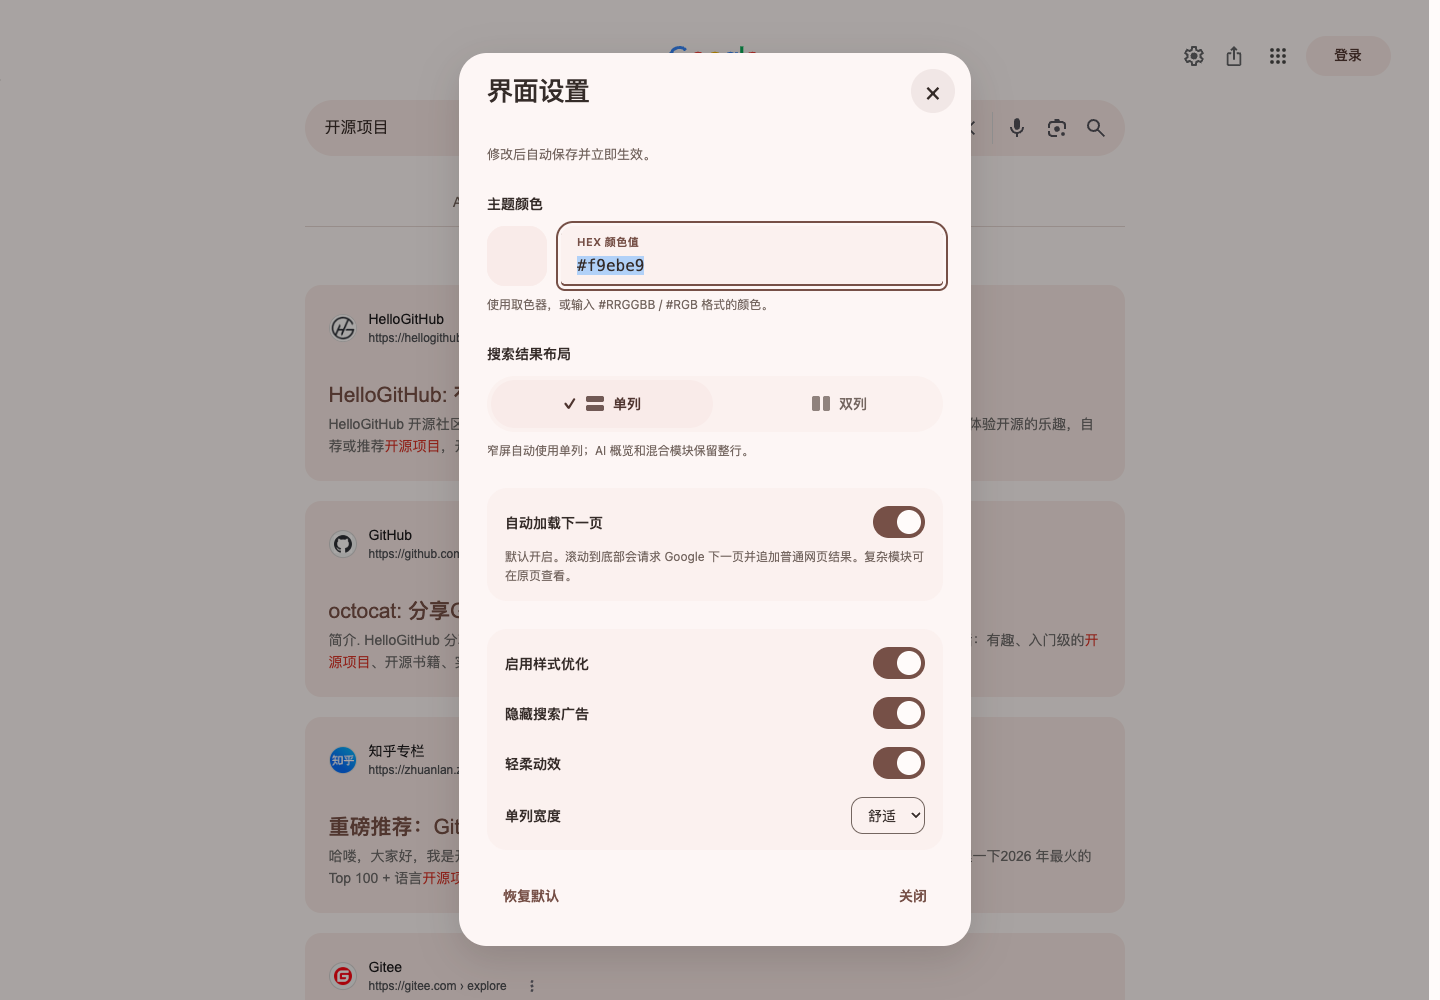
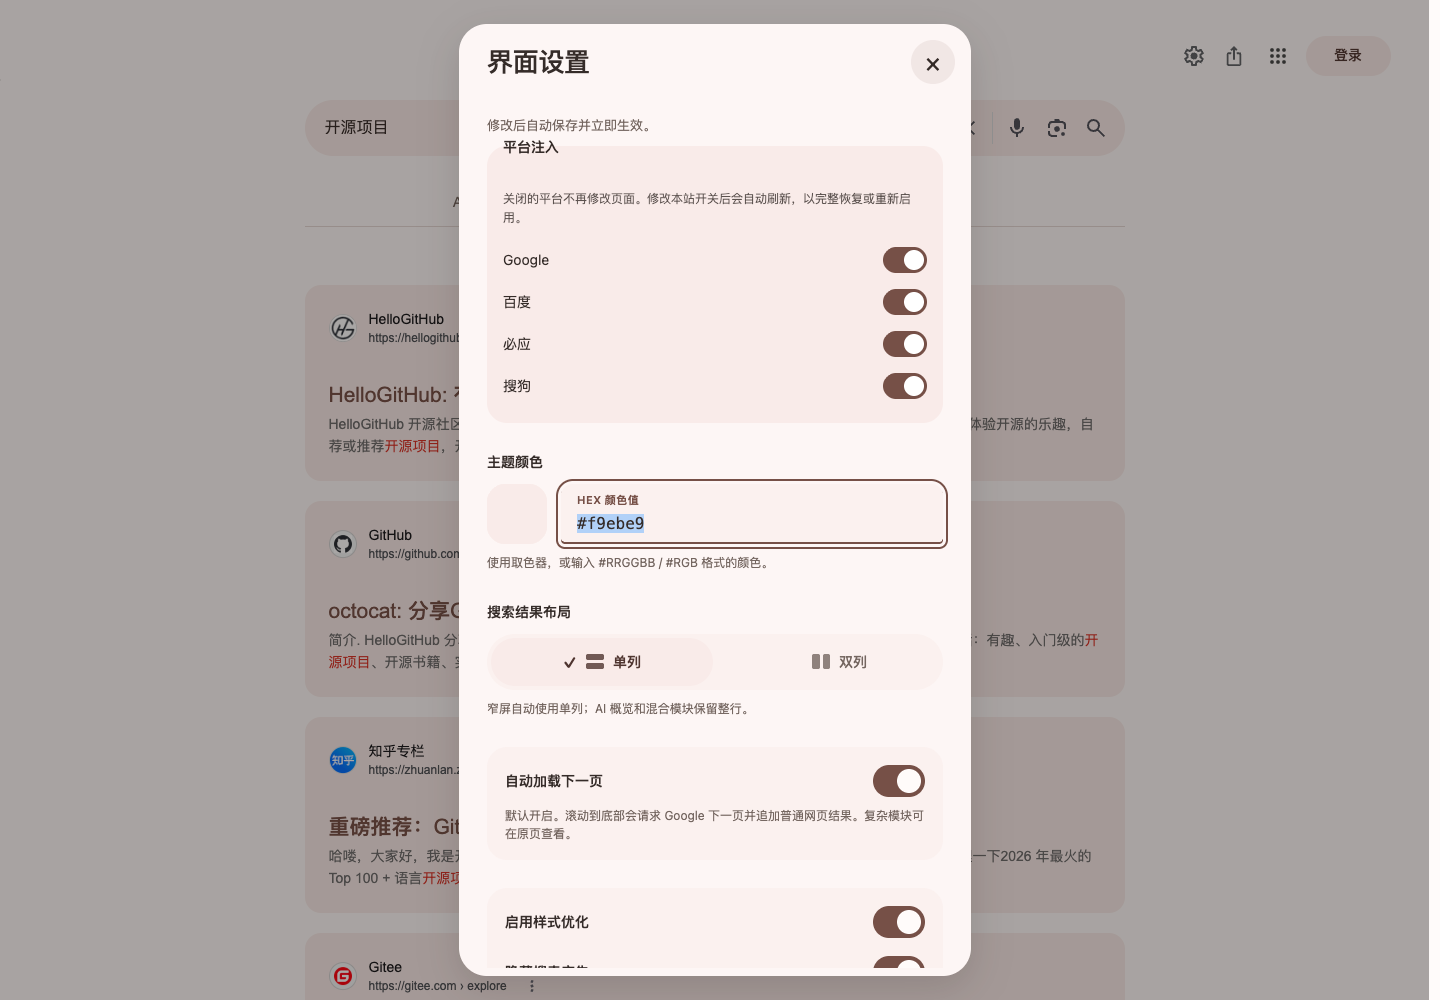
更新: 增加四站注入开关并完整恢复禁用平台原生页面

diff --git a/search-quiet-cards.user.js b/search-quiet-cards.user.js
@@ -2,7 +2,7 @@
 // @name         谷歌搜索样式优化 · MD3 风格
 // @name:zh-CN   谷歌搜索样式优化 · MD3 风格
 // @namespace    local.google-search.quiet-cards
-// @version      1.9.17
+// @version      1.9.18
 // @description  MD3 风格的 Google 搜索样式优化，支持卡片瀑布流、实时设置与自动翻页，兼容百度、必应、搜狗。
 // @author       dot
 // @downloadURL  https://raw.githubusercontent.com/ZOUYIQAQ/Better-Google-Search/main/search-quiet-cards.user.js
@@ -13,6 +13,7 @@
 // @inject-into  content
 // @grant        GM_getValue
 // @grant        GM_setValue
+// @grant        GM_addValueChangeListener
 // @grant        GM_registerMenuCommand
 // @grant        GM_unregisterMenuCommand
 // @noframes
@@ -23,6 +24,251 @@
 // @match        https://cn.bing.com/search*
 // @match        https://www.sogou.com/web*
 // ==/UserScript==
+
+// 平台开关位于全部页面功能之前；关闭的平台只注册管理器设置菜单。
+(() => {
+  const PLATFORM_KEY = "quiet-search.platforms.v1";
+  const PLATFORM_NAMES = {
+    google: "Google",
+    baidu: "百度",
+    bing: "必应",
+    sogou: "搜狗",
+  };
+  const host = location.hostname;
+  const currentPlatform =
+    /^(?:www\.)?google\.(?:com|[a-z]{2,3}|co\.[a-z]{2}|com\.[a-z]{2})$/i.test(
+      host,
+    )
+      ? "google"
+      : /^(?:www|www1)\.baidu\.com$/i.test(host)
+        ? "baidu"
+        : /^(?:www|cn)\.bing\.com$/i.test(host)
+          ? "bing"
+          : host === "www.sogou.com"
+            ? "sogou"
+            : null;
+  if (!currentPlatform || window.top !== window.self) return;
+
+  // 平台开关独立于外观设置，各站共享同一份启用列表。
+  function readPlatforms() {
+    let stored = {};
+    try {
+      if (typeof GM_getValue === "function")
+        stored = GM_getValue(PLATFORM_KEY, {}) || {};
+    } catch {}
+    return Object.fromEntries(
+      Object.keys(PLATFORM_NAMES).map((name) => [name, stored[name] !== false]),
+    );
+  }
+
+  // 在原有设置面板内提供四站注入开关，修改后立即保存。
+  function addPlatformSettings(form, before = form.firstChild) {
+    const field = document.createElement("fieldset");
+    field.className = "platform-settings";
+    const style = document.createElement("style");
+    style.textContent = `
+.platform-settings {
+  border: 0;
+  margin: 0 0 24px;
+  padding: 16px;
+  border-radius: 20px;
+  background: var(--s-container, #f9ebe9);
+}
+.platform-settings legend {
+  font-size: 14px;
+  font-weight: 600;
+  padding: 0;
+}
+.platform-settings p {
+  font-size: 12px;
+  line-height: 1.6;
+  margin: 4px 0 12px;
+  color: inherit;
+  opacity: 0.8;
+}
+.platform-settings label {
+  display: flex;
+  align-items: center;
+  justify-content: space-between;
+  gap: 16px;
+  min-height: 42px;
+  cursor: pointer;
+}
+.platform-settings input {
+  appearance: none !important;
+  position: relative !important;
+  width: 44px !important;
+  height: 26px !important;
+  min-width: 44px;
+  margin: 0 !important;
+  padding: 0 !important;
+  border: 0 !important;
+  border-radius: 999px !important;
+  background: #bfa39c !important;
+  cursor: pointer;
+}
+.platform-settings input:checked {
+  background: #765047 !important;
+}
+.platform-settings input::before {
+  content: none !important;
+}
+.platform-settings input::after {
+  content: "" !important;
+  display: block;
+  position: absolute;
+  left: 3px !important;
+  top: 3px !important;
+  width: 20px !important;
+  height: 20px !important;
+  border-radius: 50%;
+  background: white;
+  transform: none !important;
+  transition: transform 160ms ease;
+}
+.platform-settings input:checked::after {
+  transform: translateX(18px) !important;
+}
+.platform-settings input:focus-visible {
+  outline: 2px solid #765047;
+  outline-offset: 3px;
+}
+@media (prefers-reduced-motion: reduce) {
+  .platform-settings input::after {
+    transition: none;
+  }
+}
+.platform-settings [role="alert"] {
+  color: #a63832;
+}
+@media (prefers-color-scheme: dark) {
+  .platform-settings {
+    background: #352925;
+  }
+}
+`;
+    const legend = document.createElement("legend");
+    legend.textContent = "平台注入";
+    const hint = document.createElement("p");
+    hint.textContent =
+      "关闭的平台不再修改页面。修改本站开关后会自动刷新，以完整恢复或重新启用。";
+    const error = document.createElement("p");
+    error.setAttribute("role", "alert");
+    error.hidden = true;
+    field.append(style, legend, hint);
+    const values = readPlatforms();
+    for (const [name, label] of Object.entries(PLATFORM_NAMES)) {
+      const row = document.createElement("label");
+      const text = document.createElement("span");
+      text.textContent = label;
+      const input = document.createElement("input");
+      input.type = "checkbox";
+      input.name = `platform-${name}`;
+      input.setAttribute("role", "switch");
+      input.checked = values[name];
+      // 先完成持久化，再刷新本站；其他平台的设置不打断当前页面。
+      input.addEventListener("change", async () => {
+        const next = { ...readPlatforms(), [name]: input.checked };
+        input.disabled = true;
+        try {
+          if (typeof GM_setValue !== "function")
+            throw new Error("当前管理器不支持保存平台设置");
+          await GM_setValue(PLATFORM_KEY, next);
+          if (name === currentPlatform) location.reload();
+        } catch {
+          input.checked = !next[name];
+          error.textContent = "平台开关保存失败，请重试。";
+          error.hidden = false;
+        } finally {
+          input.disabled = false;
+        }
+      });
+      row.append(text, input);
+      field.append(row);
+    }
+    field.append(error);
+    form.insertBefore(field, before);
+  }
+
+  let platformPanel = null;
+  // 其他标签页修改本站开关时也刷新还原，避免已打开的页面继续保留旧效果。
+  if (typeof GM_addValueChangeListener === "function") {
+    GM_addValueChangeListener(PLATFORM_KEY, (_name, previous, next, remote) => {
+      if (
+        remote &&
+        (previous?.[currentPlatform] !== false) !==
+          (next?.[currentPlatform] !== false)
+      )
+        location.reload();
+    });
+  }
+  // 关闭注入时仍可按需打开管理器设置，未打开前不创建任何页面节点。
+  function openPlatformSettings() {
+    if (platformPanel?.isConnected) return;
+    const host = document.createElement("div");
+    const shadow = host.attachShadow({ mode: "open" });
+    const style = document.createElement("style");
+    style.textContent = `
+dialog {
+  box-sizing: border-box;
+  width: min(520px, calc(100vw - 32px));
+  border: 0;
+  border-radius: 28px;
+  background: #fffbfa;
+  color: #352c29;
+  font: 14px/1.6 system-ui;
+}
+dialog::backdrop {
+  background: rgb(35 27 24 / 0.38);
+}
+h2 {
+  margin: 0;
+  font-size: 24px;
+}
+p {
+  color: #746660;
+}
+@media (prefers-color-scheme: dark) {
+  dialog {
+    background: #211a18;
+    color: #ede0dc;
+  }
+  p {
+    color: #cbbab4;
+  }
+}
+`;
+    const dialog = document.createElement("dialog");
+    dialog.setAttribute("aria-label", "平台注入设置");
+    const heading = document.createElement("h2");
+    heading.textContent = "平台注入设置";
+    const intro = document.createElement("p");
+    intro.textContent = `${PLATFORM_NAMES[currentPlatform]} 已关闭注入，当前页面保持原生状态。`;
+    const form = document.createElement("form");
+    addPlatformSettings(form);
+    dialog.append(heading, intro, form);
+    shadow.append(style, dialog);
+    // 退出设置时只清理按需创建的面板，不触碰原生网页。
+    function close() {
+      host.remove();
+      platformPanel = null;
+    }
+    dialog.addEventListener("cancel", (event) => {
+      event.preventDefault();
+      close();
+    });
+    mountSettingsFrame(dialog, shadow, close);
+    (document.body || document.documentElement).append(host);
+    platformPanel = host;
+    dialog.showModal();
+  }
+
+  if (!readPlatforms()[currentPlatform]) {
+    if (typeof GM_registerMenuCommand === "function")
+      GM_registerMenuCommand("界面设置", openPlatformSettings);
+    return;
+  }
+
 
 // 为设置表单串行保存最新值，连续输入颜色时合并短时间内的变更。
 function createLiveSettings(form, readDraft, saveDraft, showStatus) {
@@ -172,7 +418,7 @@ dialog[open]::backdrop { animation: settings-backdrop-enter 180ms ease-out both;
     return;
   const PREFIX = "gqc";
   const STYLE_ID = `${PREFIX}-styles`;
-  const VERSION = "1.9.17";
+  const VERSION = "1.9.18";
   const read = (name, fallback) => {
     try {
       return typeof GM_getValue === "function"
@@ -4289,6 +4535,7 @@ input[type="color"]:disabled,
     const cancel = make("button", { type: "button" }, "关闭");
     actions.append(reset, spacer, cancel);
     form.append(heading, intro, colorField, layoutField, loadField, behavior, status, actions);
+    addPlatformSettings(form, colorField);
     dialog.append(form);
     shadow.append(sheet, dialog);
     host.dataset.dark = String(root.dataset.gqcTheme === "dark");
@@ -7642,6 +7889,7 @@ button:disabled {
       reset.type = cancel.type = "button";
       actions.append(reset, cancel);
       form.append(status, actions);
+      addPlatformSettings(form);
       dialog.append(title, intro, form);
       shadow.append(ui, dialog);
       document.body.append(host);
@@ -8097,4 +8345,6 @@ button:disabled {
   }
   if (document.documentElement) startAds();
   else document.addEventListener("DOMContentLoaded", startAds, { once: true });
+})();
+
 })();

diff --git a/README.md b/README.md
@@ -1,10 +1,10 @@
 # 谷歌搜索样式优化 · MD3 风格
 
-采用 Material Design 3（MD3）风格，以 Google 为主，兼容百度、必应与搜狗的搜索结果页美化脚本。当前版本：**1.9.17**。
+采用 Material Design 3（MD3）风格，以 Google 为主，兼容百度、必应与搜狗的搜索结果页美化脚本。当前版本：**1.9.18**。
 
 ## 预览
 
-以下为 1.9.17 在真实 Google 搜索页的截图，单列与双列使用同一组搜索结果。
+搜索布局为 1.9.17 实页截图，单列与双列使用同一组结果；设置弹窗已更新至 1.9.18。
 
 ### 双列瀑布流
 
@@ -17,6 +17,10 @@
 ### 界面设置
 
 ![界面设置弹窗预览](docs/images/settings.png)
+
+关闭注入后的设置入口：
+
+![关闭注入后的平台设置](docs/images/platform-disabled.png)
 
 ### 其他搜索站点
 
@@ -47,7 +51,17 @@
 
 ## 设置入口
 
-点击脚本管理器图标，在本脚本下方选择 **“界面设置”**。各搜索站点独立保存配置。
+点击脚本管理器图标，在本脚本下方选择 **“界面设置”**。各搜索站点独立保存外观配置。
+
+“平台注入”可分别关闭 Google、百度、必应、搜狗。修改当前平台时会自动刷新一次，使已添加的样式、卡片、链接改动、广告过滤及翻页功能完整退出。关闭后再次刷新仍保持原生页面，只保留管理器设置入口用于重新开启。其他已打开的对应平台标签页也会同步刷新还原；关闭一个平台不会关闭其余平台。
+
+## 1.9.18 更新
+
+- 新增四个平台的独立注入开关，放在唯一的设置弹窗中，实时保存。
+- 禁用平台在所有页面功能之前直接返回，不创建样式、页面标记、页面监听器或翻页／点击代理；只保留管理器设置入口和平台偏好同步。
+- 修改本站开关自动刷新，彻底还原已运行的增强；支持跨标签同步，刷新后仍保持关闭。
+- 关闭状态下也可以从管理器打开平台设置并重新开启。
+- 持续参考 AC-baidu 的站点分层、广告标记与分页处理经验，保留现有 MD3 风格和原生交互。
 
 ## 1.9.17 更新
 
@@ -117,7 +131,7 @@
 
 1.9.17 使用真实无头 CloakBrowser、持久配置和暴力猴安装脚本，对百度、必应、搜狗分别测试“北京、鲁迅、飞书、Python asyncio、iPhone 17、上海天气、猫咪图片”，覆盖 21 个实页，并检查单列、双列及窄屏截图。另在四站复查真实设置菜单，在三站原生输入框按回车搜索“开源软件”，验证设置刷新后保留，并在必应、搜狗确认实际广告隐藏与恢复。百度、必应在原生搜索后的真实页面均实际自动追加了23张结果卡片。
 
-78 项辅助扩展回归、13 项事件与分页／广告识别测试通过，辅助结构页不代替上述实页验收。Google 是主要适配目标，搜索网站的页面结构会变化；本轮样本不代表所有关键词、广告形式或未来页面版本均已覆盖。
+1.9.18 另在四站实页验证关闭、刷新后保持原生、设置入口与重新启用，以及跨标签同步；关闭状态下自有样式、节点和页面属性均为 0。78 项辅助扩展回归、23 项事件与分页／广告识别／平台隔离测试通过，辅助结构页不代替上述实页验收。Google 是主要适配目标，搜索网站的页面结构会变化；本轮样本不代表所有关键词、广告形式或未来页面版本均已覆盖。
 
 自动追加仅提取普通网页结果；复杂交互内容请通过原生完整分页查看。搜狗没有可识别的下一页链接时保留原生机制，不伪造下一页地址。广告过滤以明确标记识别，不保证覆盖所有投放形式。
 
